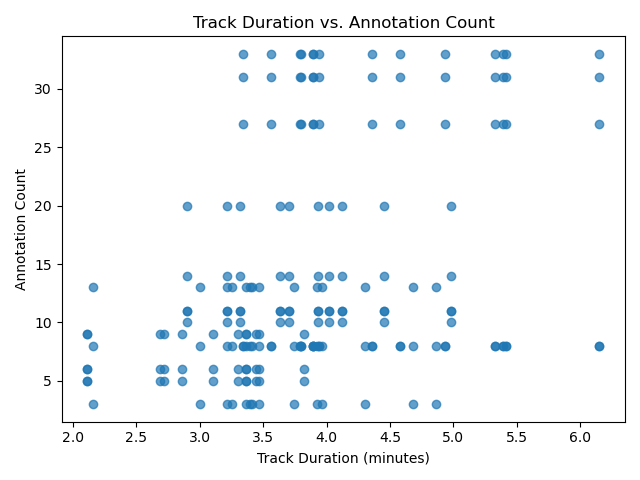
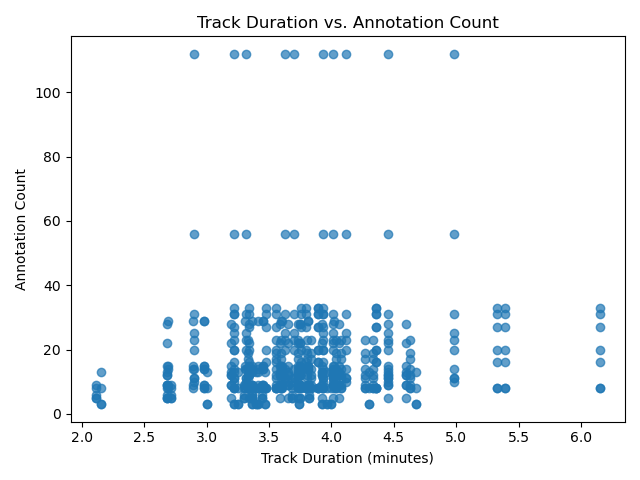
complete ish

diff --git a/spotify_data.py b/spotify_data.py
@@ -1,30 +1,24 @@
-
-
-
 import requests
 import sqlite3
 import time
+import random
+from db_setup import setup_database
 
-# ---------------------------------------------
-# Spotify API Setup (Use your own access token)
-# ---------------------------------------------
-ACCESS_TOKEN = 'BQBW2vkq8Z6jMeghvEUSZLuNojCda5_hys4t_0Uy5fI-j0Vx4pJKVbYQaoeFIRFNWDRQmYLbxdeOWbPKIZ7oQVz54MS7q1XPgwuQyu1mn0R9l19p1KW8M5zvq6I6gCe1xG8u6cCV6l4'
-HEADERS = {
-    'Authorization': f'Bearer {ACCESS_TOKEN}'
-}
+# Spotify API Setup with your current access token
+ACCESS_TOKEN = 'BQAsbhO36oDbrNYXfEDc1Ey5Zzv34raJx-Hh-Ewq_TTLuHpga4NprOcjtWNSmyHZVP2q4thIqynH_1S3ptdsHlwbJAuiwsdytqH5pxiWUzeNJNqA2qVKHTh48MFUCrXIvz5D0hkuxLQ'
+HEADERS = {'Authorization': f'Bearer {ACCESS_TOKEN}'}
 BASE_URL = 'https://api.spotify.com/v1'
 
 ARTISTS = [
-    'Beyonce', 'Caamp', 'Drake', 'Ariana Grande', 'The Weeknd',
-    'Rihanna', 'Selena Gomez', 'Queen', 'The Neighbourhood',
-    'Lorde', 'Macklemore', 'Journey', 'AC/DC', 'Steve Lacy', 'Brent Faiyaz'
+   'Beyonce', 'Caamp', 'Drake', 'Ariana Grande', 'The Weeknd',
+   'Rihanna', 'Selena Gomez', 'Queen', 'The Neighbourhood',
+   'Lorde', 'Macklemore', 'Journey', 'AC/DC', 'Steve Lacy', 'Brent Faiyaz'
 ]
 
 DB_NAME = '/Users/skylaremerson/Desktop/SI206/skyhand/music_data.sqlite'
-LIMIT_PER_RUN = 25  # Limit new tracks per run
+LIMIT_PER_RUN = 25  # New tracks to add per run
 
 def setup_database_spotify():
-    """Ensure the Tracks and AudioFeatures tables exist."""
     setup_database()
 
 def search_tracks_by_artist(artist_name, limit=15, offset=0):
@@ -41,24 +35,6 @@ def search_tracks_by_artist(artist_name, limit=15, offset=0):
     data = response.json()
     return data['tracks']['items']
 
-def get_audio_features(track_id):
-   """
-   Retrieve audio features for a track.
-  
-   Args:
-       track_id (str): The Spotify track ID.
-  
-   Returns:
-       dict or None: A dictionary of audio features or None if not found.
-   """
-   url = f"{BASE_URL}/audio-features/{track_id}"
-   response = requests.get(url, headers=HEADERS)
-   if response.status_code != 200:
-       return None
-   return response.json()
-
-
-
 def get_artist_genres(artist_id):
     url = f"{BASE_URL}/artists/{artist_id}"
     response = requests.get(url, headers=HEADERS)
@@ -68,14 +44,12 @@ def get_artist_genres(artist_id):
     data = response.json()
     return data.get('genres', [])
 
-def store_track_and_features(track, conn, cur):
+def store_track(track, conn, cur):
     try:
         artist_info = track['artists'][0]
         artist_id = artist_info['id']
         genres_list = get_artist_genres(artist_id)
         genres_str = ", ".join(genres_list) if genres_list else "Unknown"
-
-        # Insert track including duration_ms
         print(f"Added: {track['name']} by {artist_info['name']}")
         cur.execute('''
             INSERT OR REPLACE INTO Tracks (
@@ -93,21 +67,6 @@ def store_track_and_features(track, conn, cur):
             track['duration_ms']
         ))
         conn.commit()
-
-        features = get_audio_features(track['id'])
-        if features:
-            cur.execute('''
-                INSERT OR REPLACE INTO AudioFeatures (track_id, tempo, energy, key, loudness)
-                VALUES (?, ?, ?, ?, ?)
-            ''', (
-                features['id'],
-                features['tempo'],
-                features['energy'],
-                features['key'],
-                features['loudness']
-            ))
-            conn.commit()
-
     except Exception as e:
         print(f"Error storing data for {track['name']} by {artist_info['name']}: {e}")
 
@@ -117,20 +76,19 @@ def run_spotify_collection():
     cur = conn.cursor()
 
     cur.execute("SELECT COUNT(*) FROM Tracks")
-    total_tracks_before = cur.fetchone()[0]
-    print(f"Tracks in database before adding new ones: {total_tracks_before}")
+    total_before = cur.fetchone()[0]
+    print(f"Tracks in database before adding new ones: {total_before}")
     to_add = LIMIT_PER_RUN
 
     for artist in ARTISTS:
         if to_add <= 0:
             break
-        # Always use offset 0 for mainstream tracks
-        offset = 0  
+        offset = 0  # Using the first page for mainstream results
         tracks = search_tracks_by_artist(artist, limit=15, offset=offset)
         for track in tracks:
             cur.execute("SELECT 1 FROM Tracks WHERE track_id = ?", (track['id'],))
             if cur.fetchone() is None:
-                store_track_and_features(track, conn, cur)
+                store_track(track, conn, cur)
                 to_add -= 1
                 if to_add <= 0:
                     break
@@ -146,4 +104,3 @@ def run_spotify_collection():
 
 if __name__ == '__main__':
     run_spotify_collection()
-

diff --git a/genius_data.py b/genius_data.py
@@ -5,7 +5,7 @@ import random
 import unicodedata
 from db_setup import setup_database
 
-# Genius API Setup
+# Genius API Setup with your access token
 ACCESS_TOKEN = '0Oc4fI4JUTbqzL-wDhf7i4OWKBWB82pa7QQAXqmu2q7jSxImIo3DS5Giyc-u7pkN'
 HEADERS = {'Authorization': f'Bearer {ACCESS_TOKEN}'}
 BASE_URL = 'https://api.genius.com'
@@ -20,16 +20,14 @@ DB_NAME = '/Users/skylaremerson/Desktop/SI206/skyhand/music_data.sqlite'
 LIMIT_PER_RUN = 25
 
 def setup_database_genius():
-    """Ensure that the database and tables are set up before collecting Genius data."""
     setup_database()
 
 def normalize_text(text):
-    """Normalize text by removing accents, lowercasing, and trimming spaces."""
+    """Normalize text by removing accents and converting to lowercase."""
     nkfd_form = unicodedata.normalize('NFKD', text)
     return "".join([c for c in nkfd_form if not unicodedata.combining(c)]).lower().strip()
 
 def search_genius_songs(artist, per_page=5, page=1):
-    """Search Genius API for songs by a given artist with pagination."""
     url = f'{BASE_URL}/search'
     params = {'q': artist, 'per_page': per_page, 'page': page}
     response = requests.get(url, headers=HEADERS, params=params)
@@ -39,14 +37,11 @@ def search_genius_songs(artist, per_page=5, page=1):
     return response.json()['response']['hits'][:per_page]
 
 def extract_song_data(hit, searched_artist):
-    """
-    Extract song data from a Genius API hit.
-    Only return song data if the normalized primary artist matches the searched artist.
-    """
     song = hit['result']
     primary_artist = song['primary_artist']['name']
+    # Only insert if the normalized primary artist exactly matches the searched artist.
     if normalize_text(primary_artist) != normalize_text(searched_artist):
-        return None  # Skip if not an exact match
+        return None
     song_data = {
         'song_id': song['id'],
         'title': song['title'],
@@ -55,12 +50,11 @@ def extract_song_data(hit, searched_artist):
         'release_date': song.get('release_date', 'Unknown'),
         'annotation_count': song.get('annotation_count', 0),
         'has_annotations': 1 if song.get('annotation_count', 0) > 0 else 0,
-        'lyrics': ''  # Placeholder
+        'lyrics': ''
     }
     return song_data
 
 def store_lyrics_metadata(song_data):
-    """Insert the extracted song metadata into the Lyrics table."""
     conn = sqlite3.connect(DB_NAME)
     cur = conn.cursor()
     cur.execute('''
@@ -81,11 +75,6 @@ def store_lyrics_metadata(song_data):
     conn.close()
 
 def run_genius_collection():
-    """
-    Run the Genius data collection process. This version cycles through a randomized 
-    list of artists using a simple index, ensuring that 25 new songs come from various artists.
-    It only inserts songs where the primary artist matches the searched artist.
-    """
     setup_database_genius()
     conn = sqlite3.connect(DB_NAME)
     cur = conn.cursor()
@@ -100,10 +89,8 @@ def run_genius_collection():
 
     to_add = LIMIT_PER_RUN
     new_songs = 0
-
-    # Initialize per-artist page counters
     pages = {artist: 1 for artist in ARTISTS}
-    artists_shuffled = ARTISTS[:]  # copy list
+    artists_shuffled = ARTISTS[:]
     random.shuffle(artists_shuffled)
     index = 0
     num_artists = len(artists_shuffled)
@@ -133,7 +120,6 @@ def run_genius_collection():
                         return
                 time.sleep(0.5)
             pages[current_artist] += 1
-
         index = (index + 1) % num_artists
 
     conn.close()
@@ -141,7 +127,3 @@ def run_genius_collection():
 
 if __name__ == '__main__':
     run_genius_collection()
-
-
-
-

diff --git a/visualize_data.py b/visualize_data.py
@@ -6,8 +6,7 @@ DB_NAME = '/Users/skylaremerson/Desktop/SI206/skyhand/music_data.sqlite'
 
 def bar_chart_popularity():
     """
-    Bar chart comparing average track popularity between annotated and unannotated songs.
-    Joins Lyrics and Tracks on normalized artist names (using a simple REPLACE hack for 'é').
+    Create a bar chart comparing average Spotify popularity between annotated and unannotated songs.
     """
     conn = sqlite3.connect(DB_NAME)
     cur = conn.cursor()
@@ -43,8 +42,7 @@ def bar_chart_popularity():
 
 def scatter_duration_vs_annotations():
     """
-    Scatter plot showing track duration (in minutes) versus annotation count.
-    Joins Lyrics and Tracks on normalized artist names.
+    Create a scatter plot showing track duration (in minutes) versus annotation count.
     """
     conn = sqlite3.connect(DB_NAME)
     cur = conn.cursor()
@@ -63,7 +61,7 @@ def scatter_duration_vs_annotations():
         print("No data for duration scatter plot.")
         return
 
-    durations = [row[0] / 60000 for row in data]  # Convert ms to minutes
+    durations = [row[0] / 60000 for row in data]  # Convert milliseconds to minutes
     annotations = [row[1] for row in data]
 
     plt.figure()
@@ -75,10 +73,9 @@ def scatter_duration_vs_annotations():
     plt.savefig('scatter_duration_vs_annotations.png')
     print("Saved scatter_duration_vs_annotations.png")
 
-def pie_chart_annotated_genres():
+def pie_chart_genres():
     """
-    Pie chart showing the distribution of genres among annotated songs.
-    Joins Lyrics and Tracks on normalized artist names.
+    Create a pie chart showing the distribution of genres among annotated songs.
     """
     conn = sqlite3.connect(DB_NAME)
     cur = conn.cursor()
@@ -121,10 +118,9 @@ def pie_chart_annotated_genres():
     print("Saved pie_chart_genres.png")
 
 def run_all_viz():
-    """Run all visualization functions."""
     bar_chart_popularity()
     scatter_duration_vs_annotations()
-    pie_chart_annotated_genres()
+    pie_chart_genres()
 
 if __name__ == '__main__':
     run_all_viz()

diff --git a/db_setup.py b/db_setup.py
@@ -6,7 +6,7 @@ def setup_database():
     conn = sqlite3.connect(DB_NAME)
     cur = conn.cursor()
 
-    # Updated Lyrics table (Genius API) with a lyrics column and song_id as INTEGER PRIMARY KEY
+    # Lyrics table (Genius API)
     cur.execute('''
         CREATE TABLE IF NOT EXISTS Lyrics (
             song_id INTEGER PRIMARY KEY,
@@ -20,17 +20,7 @@ def setup_database():
         )
     ''')
 
-    # New Annotations table for additional Genius data, sharing the integer song_id as a foreign key
-    cur.execute('''
-        CREATE TABLE IF NOT EXISTS Annotations (
-            annotation_id INTEGER PRIMARY KEY,
-            song_id INTEGER,
-            annotation_text TEXT,
-            FOREIGN KEY(song_id) REFERENCES Lyrics(song_id)
-        )
-    ''')
-    
-    # Updated Tracks table (Spotify API) with "genres" and "duration_ms" columns
+    # Tracks table (Spotify API) – note: duration_ms is stored as an INTEGER
     cur.execute('''
         CREATE TABLE IF NOT EXISTS Tracks (
             track_id TEXT PRIMARY KEY,
@@ -41,18 +31,6 @@ def setup_database():
             release_date TEXT,
             genres TEXT,
             duration_ms INTEGER
-        )
-    ''')
-
-    # AudioFeatures table remains unchanged (tracks are linked via track_id as TEXT)
-    cur.execute('''
-        CREATE TABLE IF NOT EXISTS AudioFeatures (
-            track_id TEXT PRIMARY KEY,
-            tempo REAL,
-            energy REAL,
-            key INTEGER,
-            loudness REAL,
-            FOREIGN KEY(track_id) REFERENCES Tracks(track_id)
         )
     ''')
     conn.commit()
